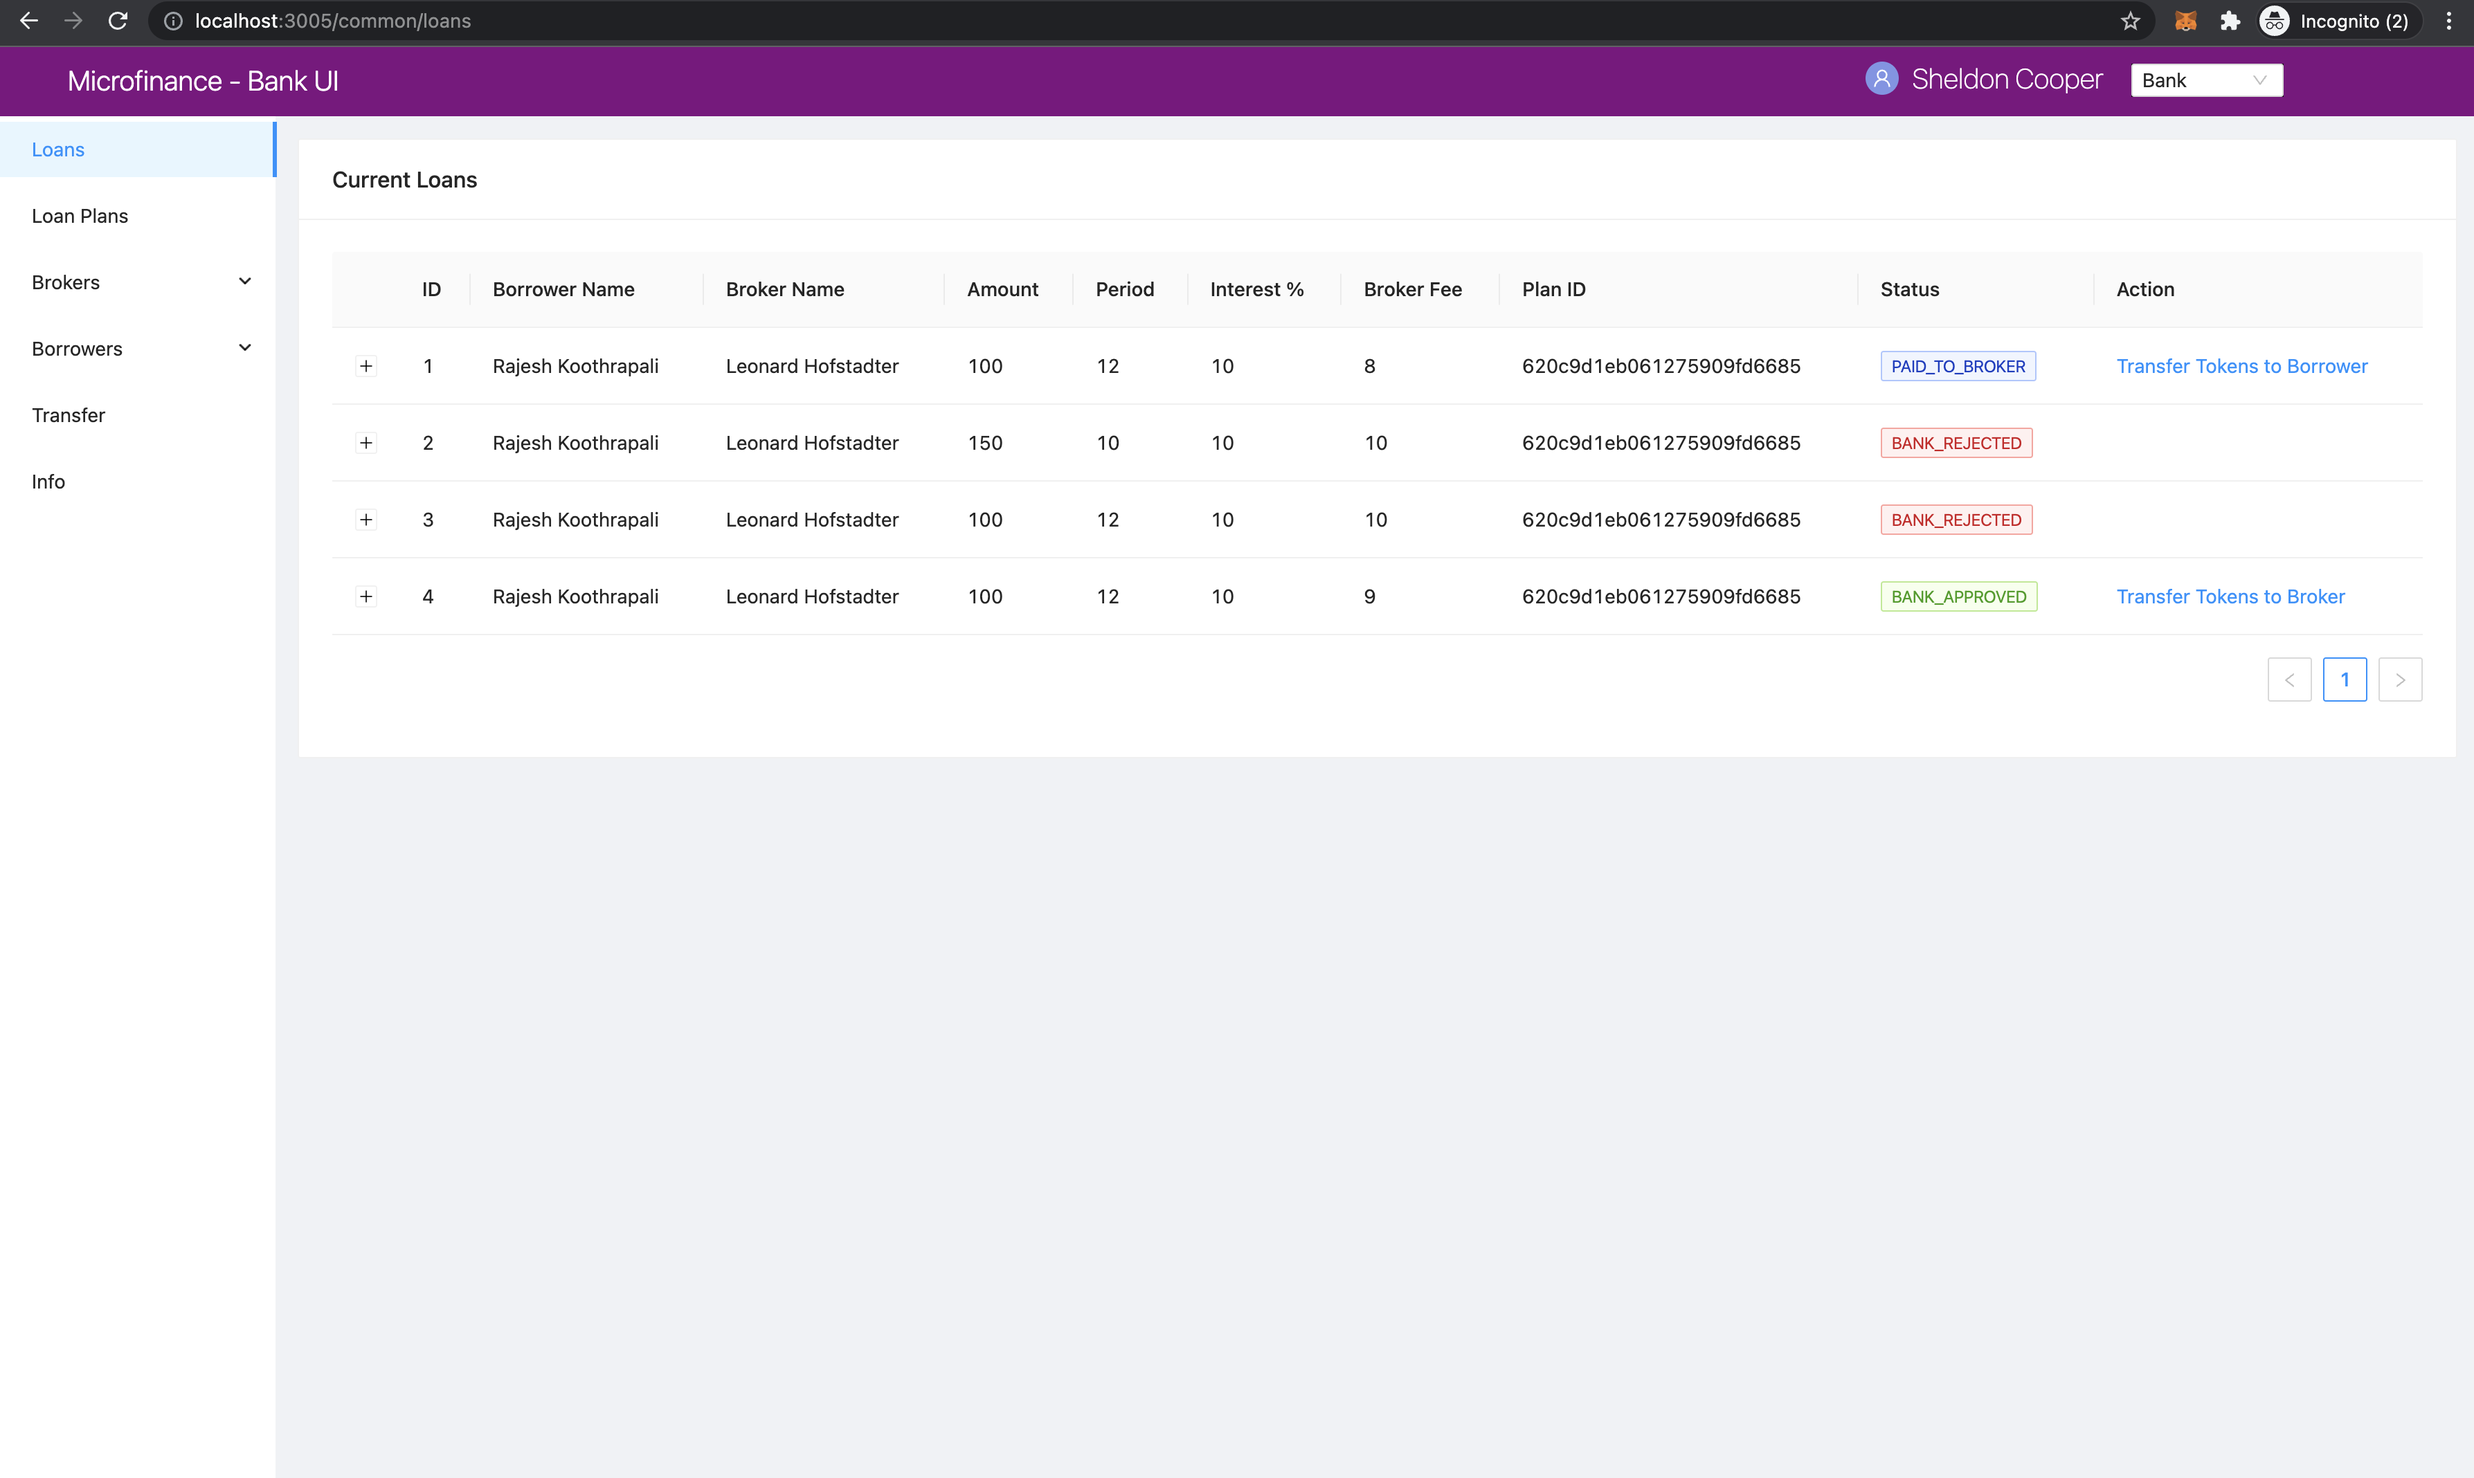
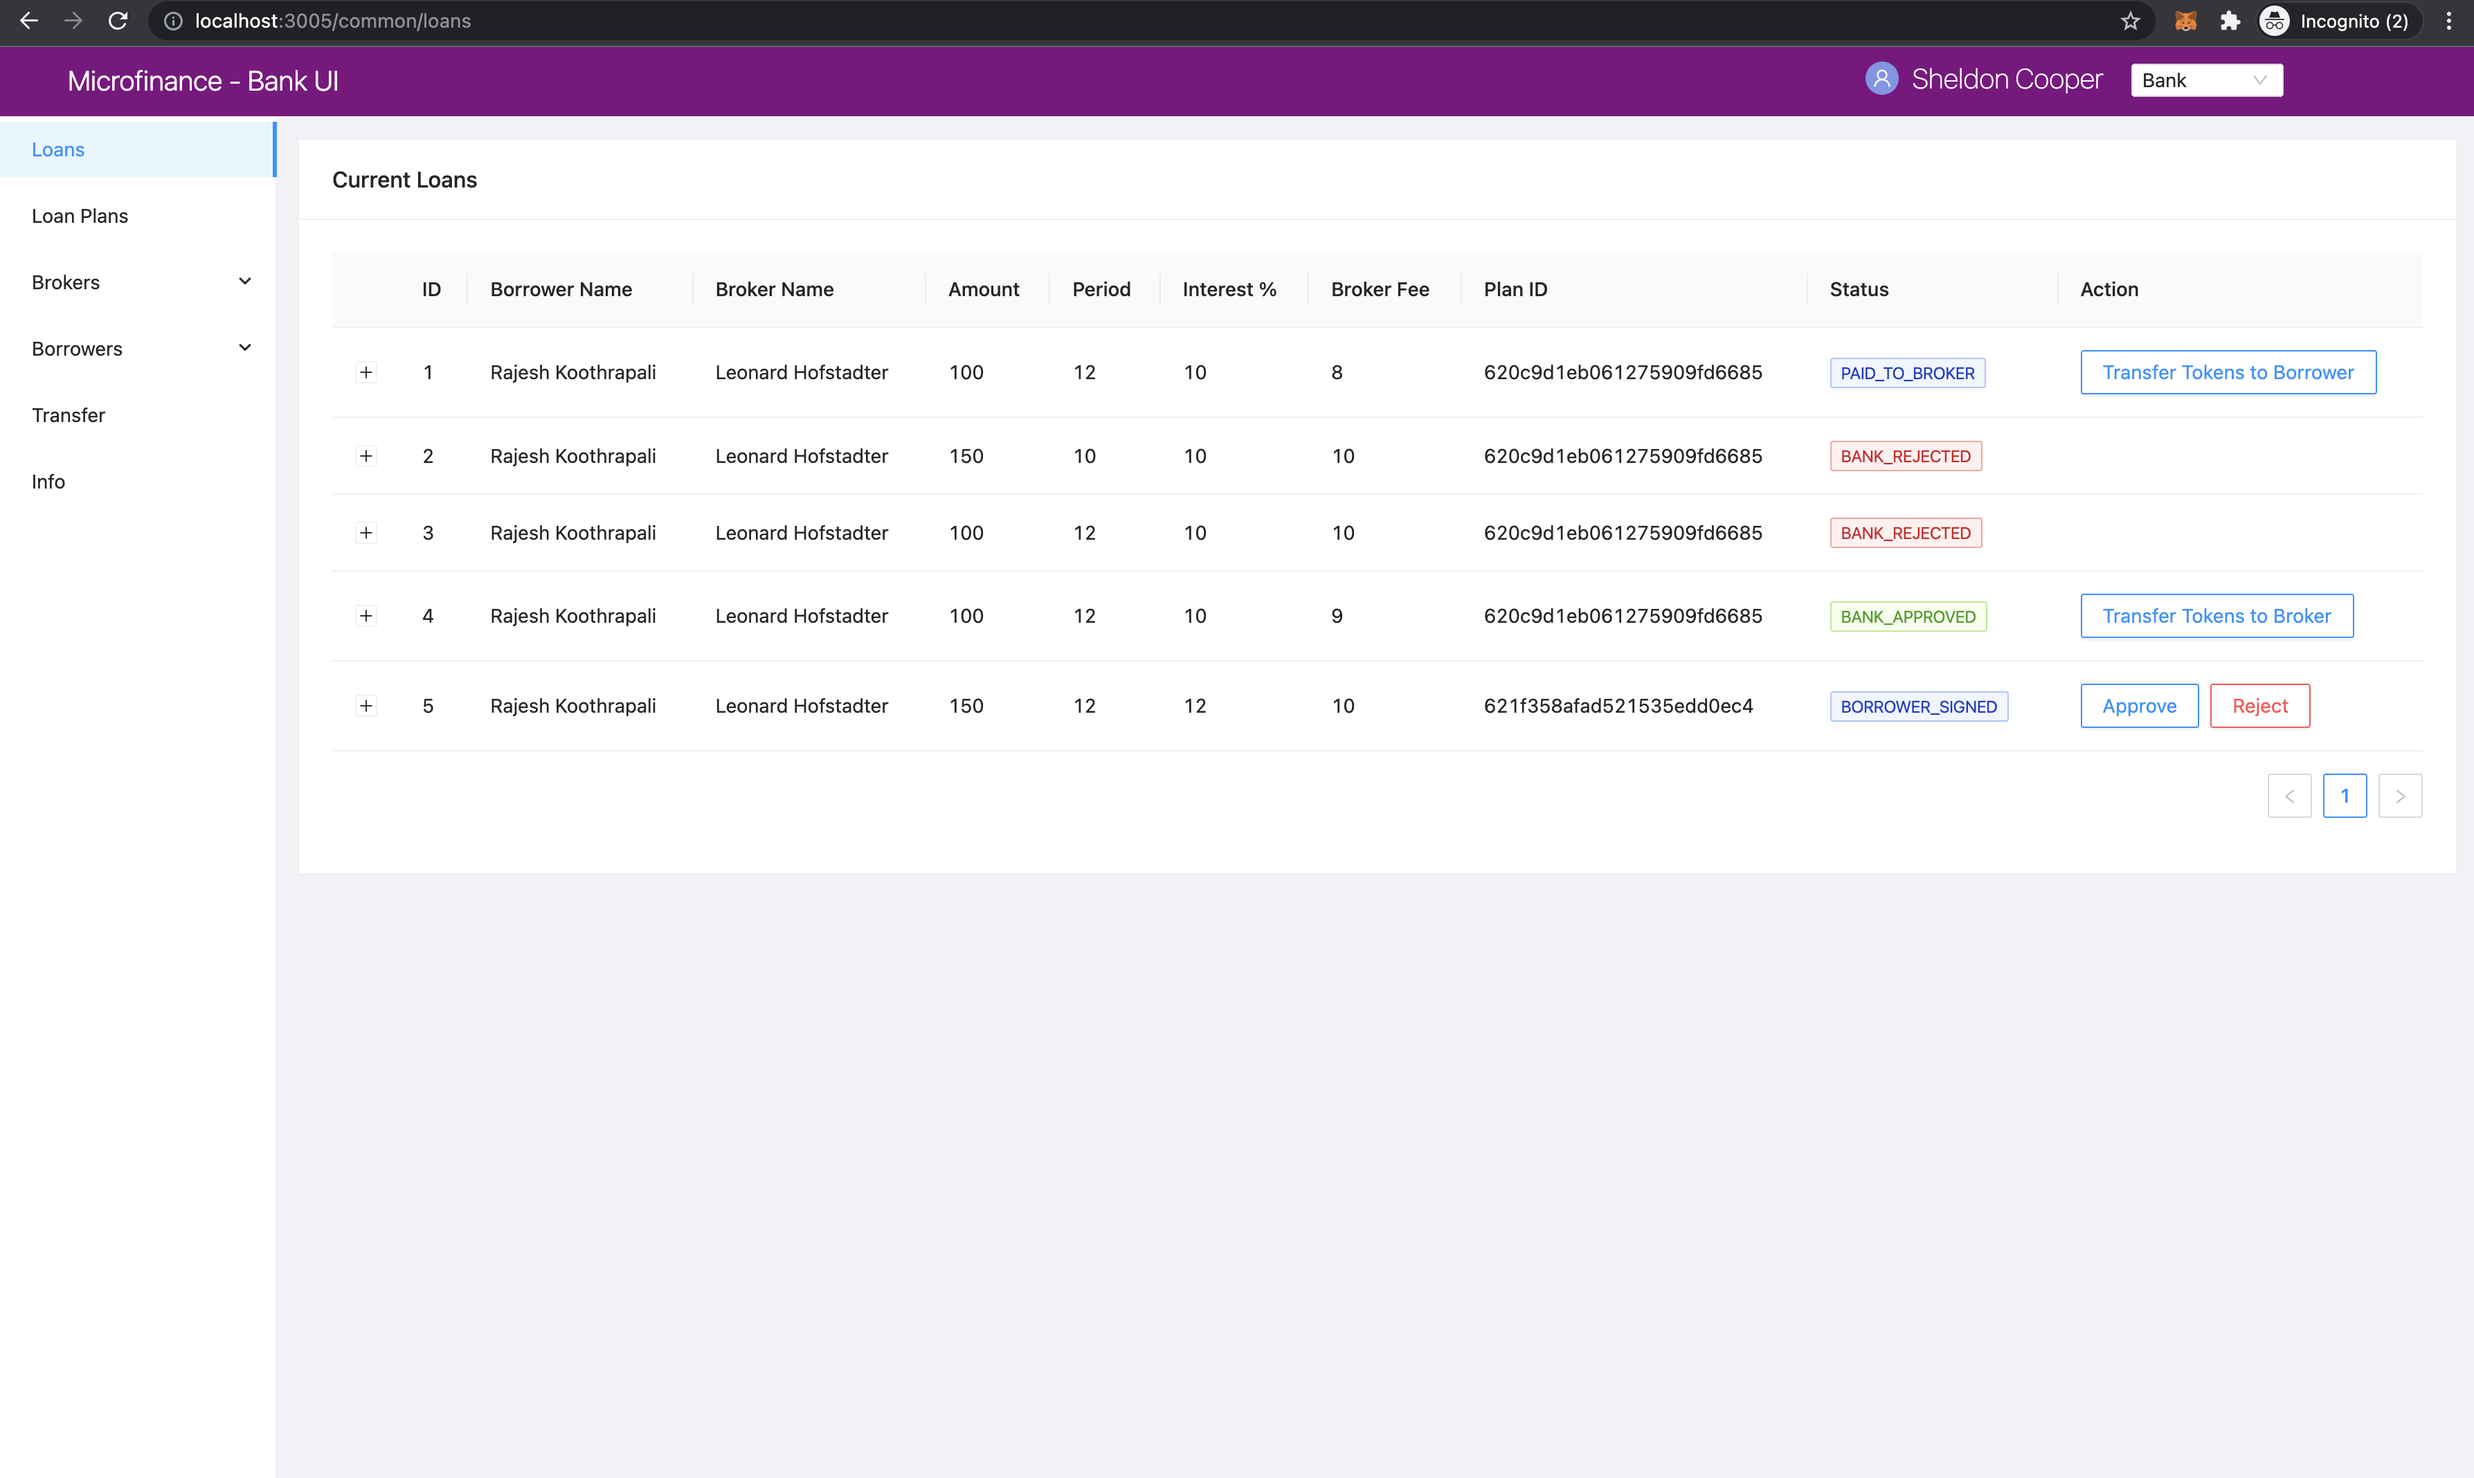
update loan table action column

diff --git a/bank-web-app/components/loan/LoansTable.js b/bank-web-app/components/loan/LoansTable.js
@@ -22,7 +22,7 @@ function LoansTable() {
 	const [isBrokerTransferModalVisible, setIsBrokerTransferModalVisible] = useState(false);
 	const [isBorrowerTransferModalVisible, setIsBorrowerTransferModalVisible] = useState(false);
 	const [loanRecord, setLoanRecord] = useState({});
-	const [current, setCurrent] = useState(0);
+	const [tokenTransferStep, setTokenTransferStep] = useState(0);
 	const [payments, setPayments] = useState([]);
 	const [data, setData] = useState([]);
 
@@ -113,13 +113,13 @@ function LoansTable() {
 			await MicroTokenContract.methods.transfer(loanRecord.broker, loanRecord.brokerFee).send({
 				from: accounts[0] });
 			message.success('Token transferred successfully');
-			await setCurrent(1);
+			await setTokenTransferStep(1);
 			await confirmTokenTrasferToBroker(loanRecord.id);
-			await setCurrent(0);
+			await setTokenTransferStep(0);
 			await setIsBrokerTransferModalVisible(false);
 		} catch (err) {
 			console.log(err);
-			await setCurrent(0);
+			await setTokenTransferStep(0);
 			message.error('Error occured while transferring tokens');
 		}
 	};
@@ -142,13 +142,13 @@ function LoansTable() {
 			await MicroTokenContract.methods.transfer(loanRecord.borrower, loanRecord.amount).send({
 				from: accounts[0] });
 			message.success('Token transferred successfully');
-			await setCurrent(1);
+			await setTokenTransferStep(1);
 			await confirmTokenTrasferToBorrower(loanRecord.id);
-			await setCurrent(0);
+			await setTokenTransferStep(0);
 			await setIsBorrowerTransferModalVisible(false);
 		} catch (err) {
 			console.log(err);
-			await setCurrent(0);
+			await setTokenTransferStep(0);
 			message.error('Error occured while transferring tokens');
 		}
 	};
@@ -188,7 +188,9 @@ function LoansTable() {
 			icon: <CloseCircleOutlined style={{ color: 'red' }} />,
 			content: `Reject Loan ${loanId} ?`,
 			okText: 'Reject Loan',
-			okType: 'danger',
+			okButtonProps: {
+				type: 'danger'
+			},
 			onOk: () => rejectLoan(loanId),
 		});
 	};
@@ -313,9 +315,7 @@ function LoansTable() {
 			render: (record) => {
 				if (record.status === '0') {
 					return (
-						<span>
-							<a href onClick={() => signLoan(record.id)}>Sign Loan</a>
-						</span>
+						<Button type="primary" ghost onClick={() => signLoan(record.id)}> Sign Loan </Button>
 					);
 				}
 			},
@@ -331,32 +331,29 @@ function LoansTable() {
 				let actionBlock = '';
 				if (record.status === '1') {
 					actionBlock =
-						<span>
-							<a href onClick={() => confirmLoanApprove(record.id)}>Approve</a>
-							<Divider type="vertical" />
-							<a href onClick={() => confirmLoanReject(record.id)} style={{ color: 'red' }}>Reject</a>
-						</span>;
+						<Space>
+							{/* <a href onClick={() => confirmLoanApprove(record.id)}>Approve</a> */}
+							<Button type="primary" ghost onClick={() => confirmLoanApprove(record.id)}> Approve </Button>
+							<Button type="primary" danger ghost onClick={() => confirmLoanReject(record.id)}> Reject </Button>
+							{/* <Divider type="vertical" />
+							<a href onClick={() => confirmLoanReject(record.id)} style={{ color: 'red' }}>Reject</a> */}
+						</Space>;
 				} else if (record.status === '2') {
 					actionBlock =
-						<span>
-							<a href onClick={() => showBrokerTransferModal(record)}>
-								Transfer Tokens to Broker
-							</a>
-						</span>;
+						<Button type="primary" ghost onClick={() => showBrokerTransferModal(record)}> 
+							Transfer Tokens to Broker 
+						</Button>
 				} else if (record.status === '4') {
-					actionBlock =
-						<span>
-							<a href onClick={() => showBorrowerTransferModal(record)}>
-								Transfer Tokens to Borrower
-							</a>
-						</span>;
+					actionBlock = 
+						<Button type="primary" ghost onClick={() => showBorrowerTransferModal(record)}> 
+							Transfer Tokens to Borrower 
+						</Button>
 				} else if (record.status === '5') {
 					actionBlock =
-						<span>
-							<a href onClick={() => closeLoan(record.id)}>Close</a>
-							<Divider type="vertical" />
-							<a href onClick={() => markAsDefaulted(record.id)} style={{ color: 'red' }}>Defaulted</a>
-						</span>;
+						<Space>
+							<Button type="primary" ghost onClick={() => closeLoan(record.id)}> Close </Button>
+							<Button type="primary" danger ghost onClick={() => markAsDefaulted(record.id)}> Defaulted </Button>
+						</Space>;
 				}
 				return actionBlock;
 			},
@@ -453,7 +450,7 @@ function LoansTable() {
 				footer={null}
 			>
 				{
-					current === 0 &&
+					tokenTransferStep === 0 &&
 					<Form
 						labelCol={{
 							lg: 4,
@@ -487,7 +484,7 @@ function LoansTable() {
 					</Form>
 				}
 				{
-					current === 1 &&
+					tokenTransferStep === 1 &&
 					<span>Update the Loan</span>
 				}
 			</Modal>
@@ -499,7 +496,7 @@ function LoansTable() {
 				footer={null}
 			>
 				{
-					current === 0 &&
+					tokenTransferStep === 0 &&
 					<Form
 						labelCol={{
 							lg: 4,
@@ -533,7 +530,7 @@ function LoansTable() {
 					</Form>
 				}
 				{
-					current === 1 &&
+					tokenTransferStep === 1 &&
 					<span>Update the Loan</span>
 				}
 			</Modal>

diff --git a/docs/source/eventFlow/loans.rst b/docs/source/eventFlow/loans.rst
@@ -691,46 +691,32 @@ If Loan is in ``1`` (``BORROWER_SIGNED``) state ``Action`` column enables ``Appr
   if (record.status === '1') {
     actionBlock =
       <span>
-        <a href onClick={() => showApproveModal(record.id)}>Approve</a>
+        <a href onClick={() => confirmLoanApprove(record.id)}>Approve</a>
         <Divider type="vertical" />
-        <a href onClick={() => showRejectModal(record.id)} style={{ color: 'red' }}>Reject</a>
+        <a href onClick={() => confirmLoanReject(record.id)} style={{ color: 'red' }}>Reject</a>
       </span>;
   }
 
-When ``Bank`` user clicks the ``Approve`` action it triggers the ``showApproveModal`` function and passes the 
+When ``Bank`` user clicks the ``Approve`` action it triggers the ``confirmLoanApprove`` function and passes the 
 Loan Id ``record.id`` value as a parameter. ::
 
-  const showApproveModal = (value) => {
-    setId(value);
-    setIsApproveModalVisible(true);
+  const confirmLoanApprove = (loanId) => {
+    confirm({
+      content: `Approve Loan ${loanId} ?`,
+      okText: 'Approve Loan',
+      onOk: () => approveLoan(loanId),
+    });
   };
 
-``showApproveModal`` function first sets the Loan Id as the ``id`` state.
-Then Chnages the ``isApproveModalVisible`` state to ``true``.
+This function displays a ``confirm`` Ant Design Modal and displays a confirmation message
+When user clicks the ``Approve Loan`` button of this modal it triggers the ``approveLoan`` function and passes the ``loanId``
+as a paramater. ::
 
-This may display the Ant Design Modal component defined in the ``return`` section. ::
-
-  <Modal title={`Approve Loan Request ${id}`} visible={isApproveModalVisible} onOk={handleApprove} onCancel={handleCancel}>
-    <p>Are you sure to approve loan?</p>
-  </Modal>
-
-This modal displays the Loan Id in its title using ``id`` state.
-It displays the confirmation messsage in the Modal body.
-When user clicks the ``OK`` button of this modal it triggers the ``handleApprove`` function. ::
-
-  const handleApprove = async () => {
-    await approveLoan();
-    setIsApproveModalVisible(false);
-  };
-
-In ``handleApprove`` function first it triggers the ``approveLoan`` function.
-Then it removes the current Modal for the UI by changing the ``isApproveModalVisible`` to false. ::
-
-  const approveLoan = async () => {
+  const approveLoan = async (loanId) => {
     try {
       const accounts = await window.ethereum.enable();
-      await BankLoanContract.methods.approveLoan(id).send({ from: accounts[0] });
-      message.success(`Loan ${id} approved`);
+      await BankLoanContract.methods.approveLoan(loanId).send({ from: accounts[0] });
+      message.success(`Loan ${loanId} approved`);
       loadData();
     } catch (err) {
       message.error('Error occured while approving the Loan');
@@ -748,46 +734,35 @@ Second action enabled for the loan state ``1`` (``BORROWER_SIGNED``) is ``Reject
   if (record.status === '1') {
     actionBlock =
       <span>
-        <a href onClick={() => showApproveModal(record.id)}>Approve</a>
+        <a href onClick={() => confirmLoanApprove(record.id)}>Approve</a>
         <Divider type="vertical" />
-        <a href onClick={() => showRejectModal(record.id)} style={{ color: 'red' }}>Reject</a>
+        <a href onClick={() => confirmLoanReject(record.id)} style={{ color: 'red' }}>Reject</a>
       </span>;
   }
 
-When ``Bank`` user clicks the ``Reject`` action it triggers the ``showRejectModal`` function and passes the 
+When ``Bank`` user clicks the ``Reject`` action it triggers the ``confirmLoanReject`` function and passes the 
 Loan Id ``record.id`` value as a parameter. ::
 
-  const showRejectModal = (value) => {
-    setId(value);
-    setIsRejectModalVisible(true);
+  const confirmLoanReject = (loanId) => {
+    confirm({
+      icon: <CloseCircleOutlined style={{ color: 'red' }} />,
+      content: `Reject Loan ${loanId} ?`,
+      okText: 'Reject Loan',
+      okType: 'danger',
+      onOk: () => rejectLoan(loanId),
+    });
   };
 
-``showRejectModal`` function first sets the Loan Id as the ``id`` state.
-Then Chnages the ``isRejectModalVisible`` state to ``true``.
+This function displays a ``confirm`` Ant Design Modal and displays a confirmation message.
+``okType: danger`` property helps to add submit button in red color in the confirm Modal.
+When user clicks the ``Reject Loan`` button of this modal it triggers the ``rejectLoan`` function and passes the ``loanId``
+as a paramater. ::
 
-This may display the Ant Design Modal component defined in the ``return`` section. ::
-
-  <Modal title={`Reject Loan Request ${id}`} visible={isRejectModalVisible} onOk={handleReject} onCancel={handleCancel}>
-    <p>Reject loan request?</p>
-  </Modal>
-
-This modal displays the Loan Id in its title using ``id`` state.
-It displays the confirmation messsage in the Modal body.
-When user clicks the ``OK`` button of this modal it triggers the ``handleReject`` function. ::
-
-  const handleReject = async () => {
-    await rejectLoan();
-    setIsRejectModalVisible(false);
-  };
-
-In ``handleReject`` function first it triggers the ``rejectLoan`` function.
-Then it removes the current Modal for the UI by changing the ``isRejectModalVisible`` to false. ::
-
-  const rejectLoan = async () => {
+  const rejectLoan = async (loanId) => {
     try {
       const accounts = await window.ethereum.enable();
-      await BankLoanContract.methods.rejectLoan(id).send({ from: accounts[0] });
-      message.success(`Loan ${id} rejected`);
+      await BankLoanContract.methods.rejectLoan(loanId).send({ from: accounts[0] });
+      message.success(`Loan ${loanId} rejected`);
       loadData();
     } catch (err) {
       message.error('Error occured while rejecting the Loan');
